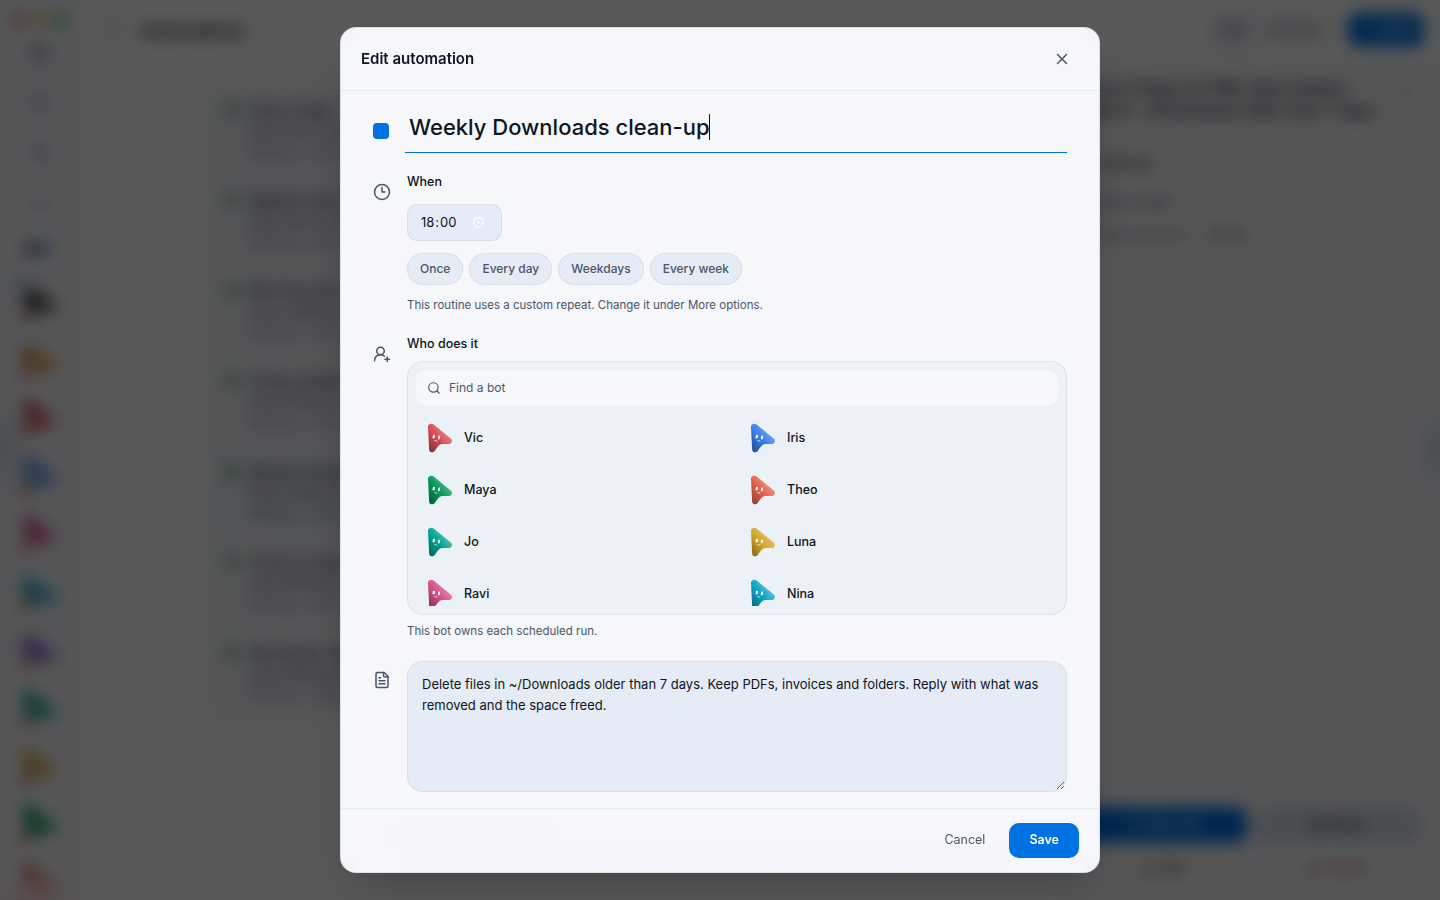
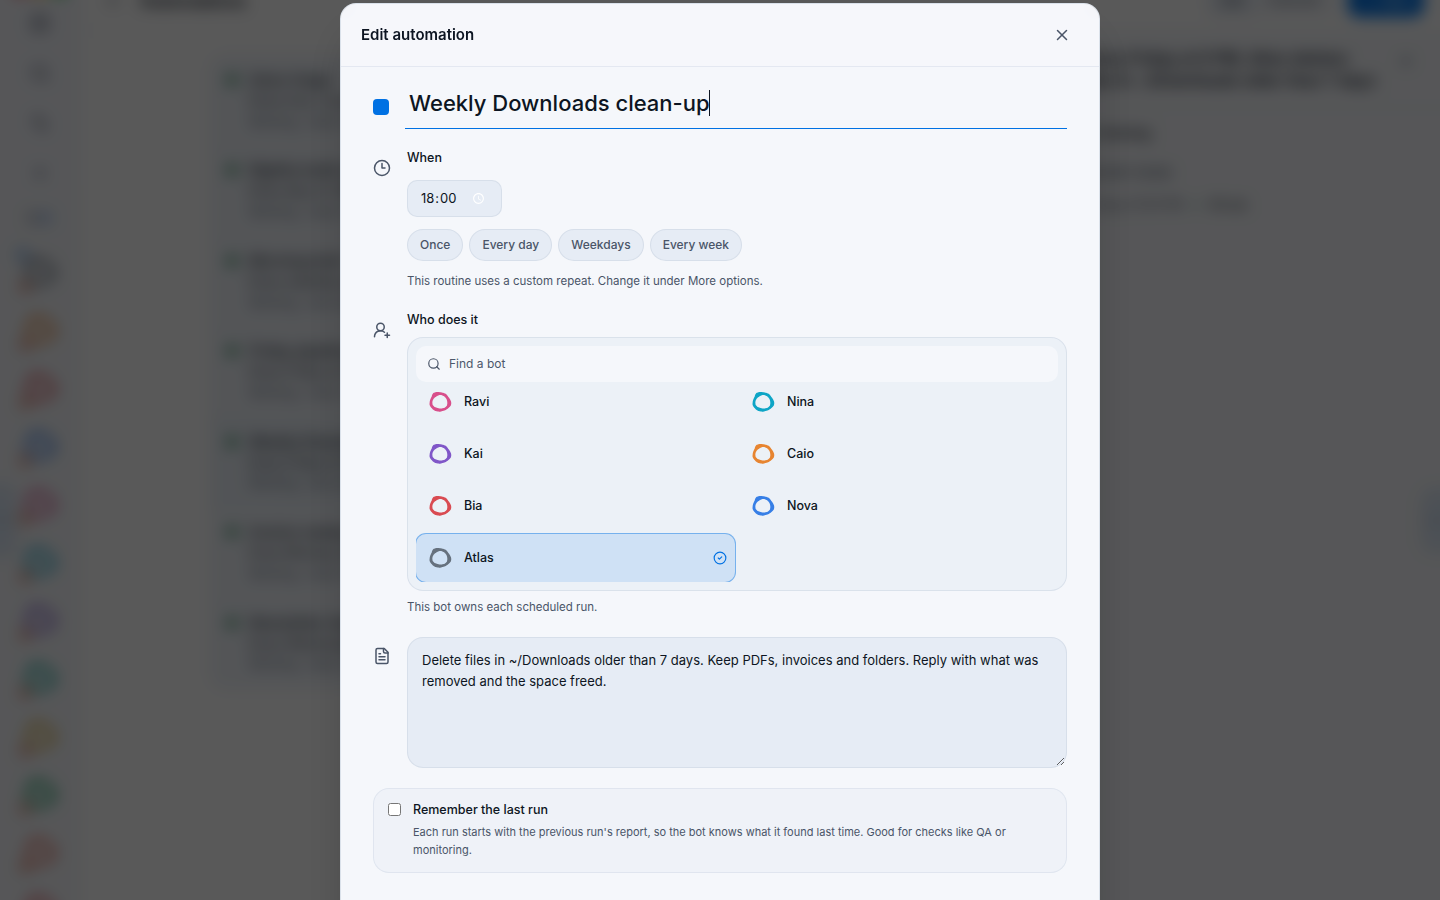
docs(readme): show the routine owner and sharpen the workspace copy

diff --git a/README.md b/README.md
@@ -51,7 +51,7 @@ Watch the team hand work to each other, and approve what matters.
 A company does not run on one generalist with one chat box. It runs on roles, rituals, handoffs, approvals and a
 shared memory of what was decided. A single assistant can answer a question; it cannot run the shape of the work.
 
-MimirBot is that shape, built for agents. It is a chat app where every contact is an agent and every room is a
+MimirBot is that workspace, built for agents. It is a chat app where every contact is an agent and every room is a
 team: departments, direct messages, group chats, a Chief of Staff, recurring routines, shared memory, and a
 computer for each bot. The agents work **separately** when the job is theirs, and **together** when the job crosses
 a boundary.
